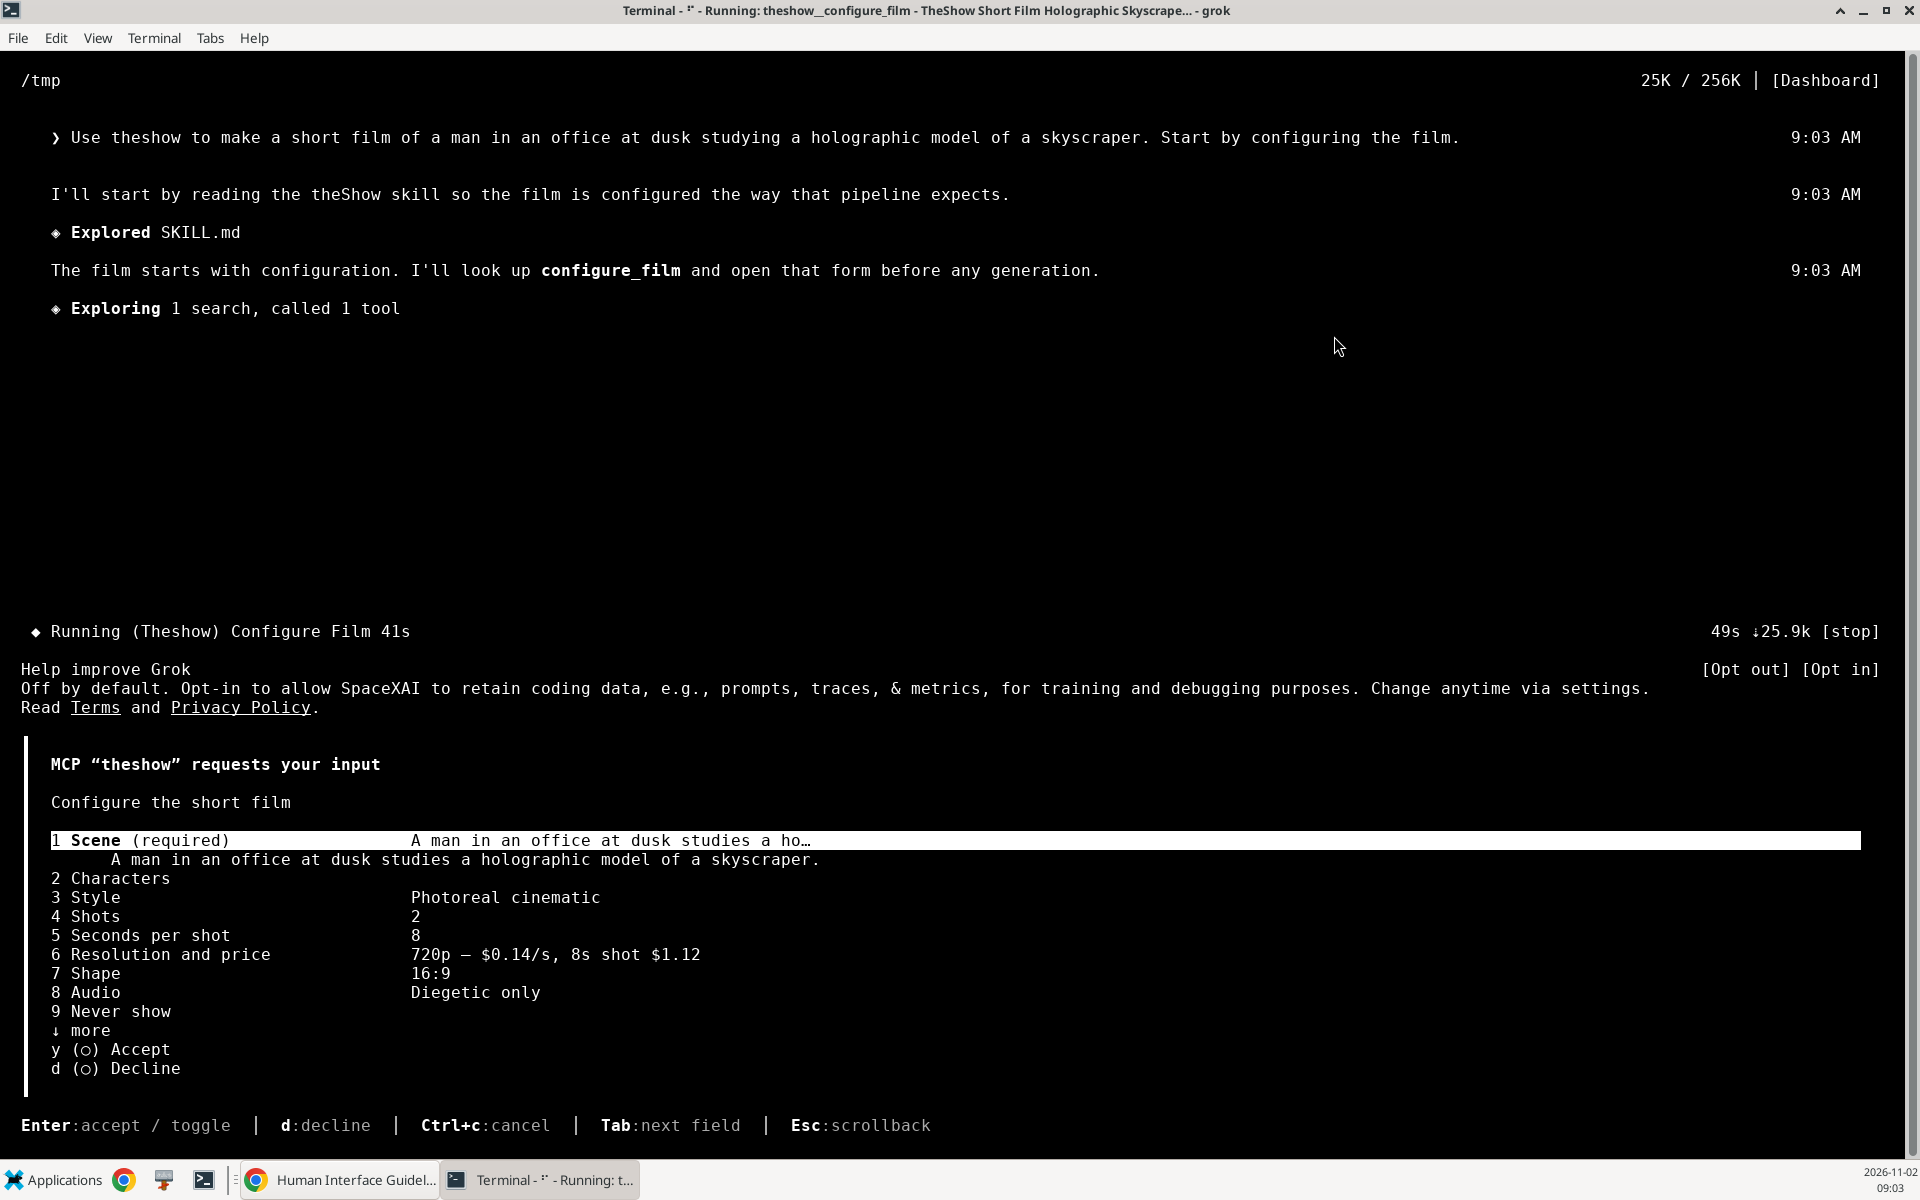
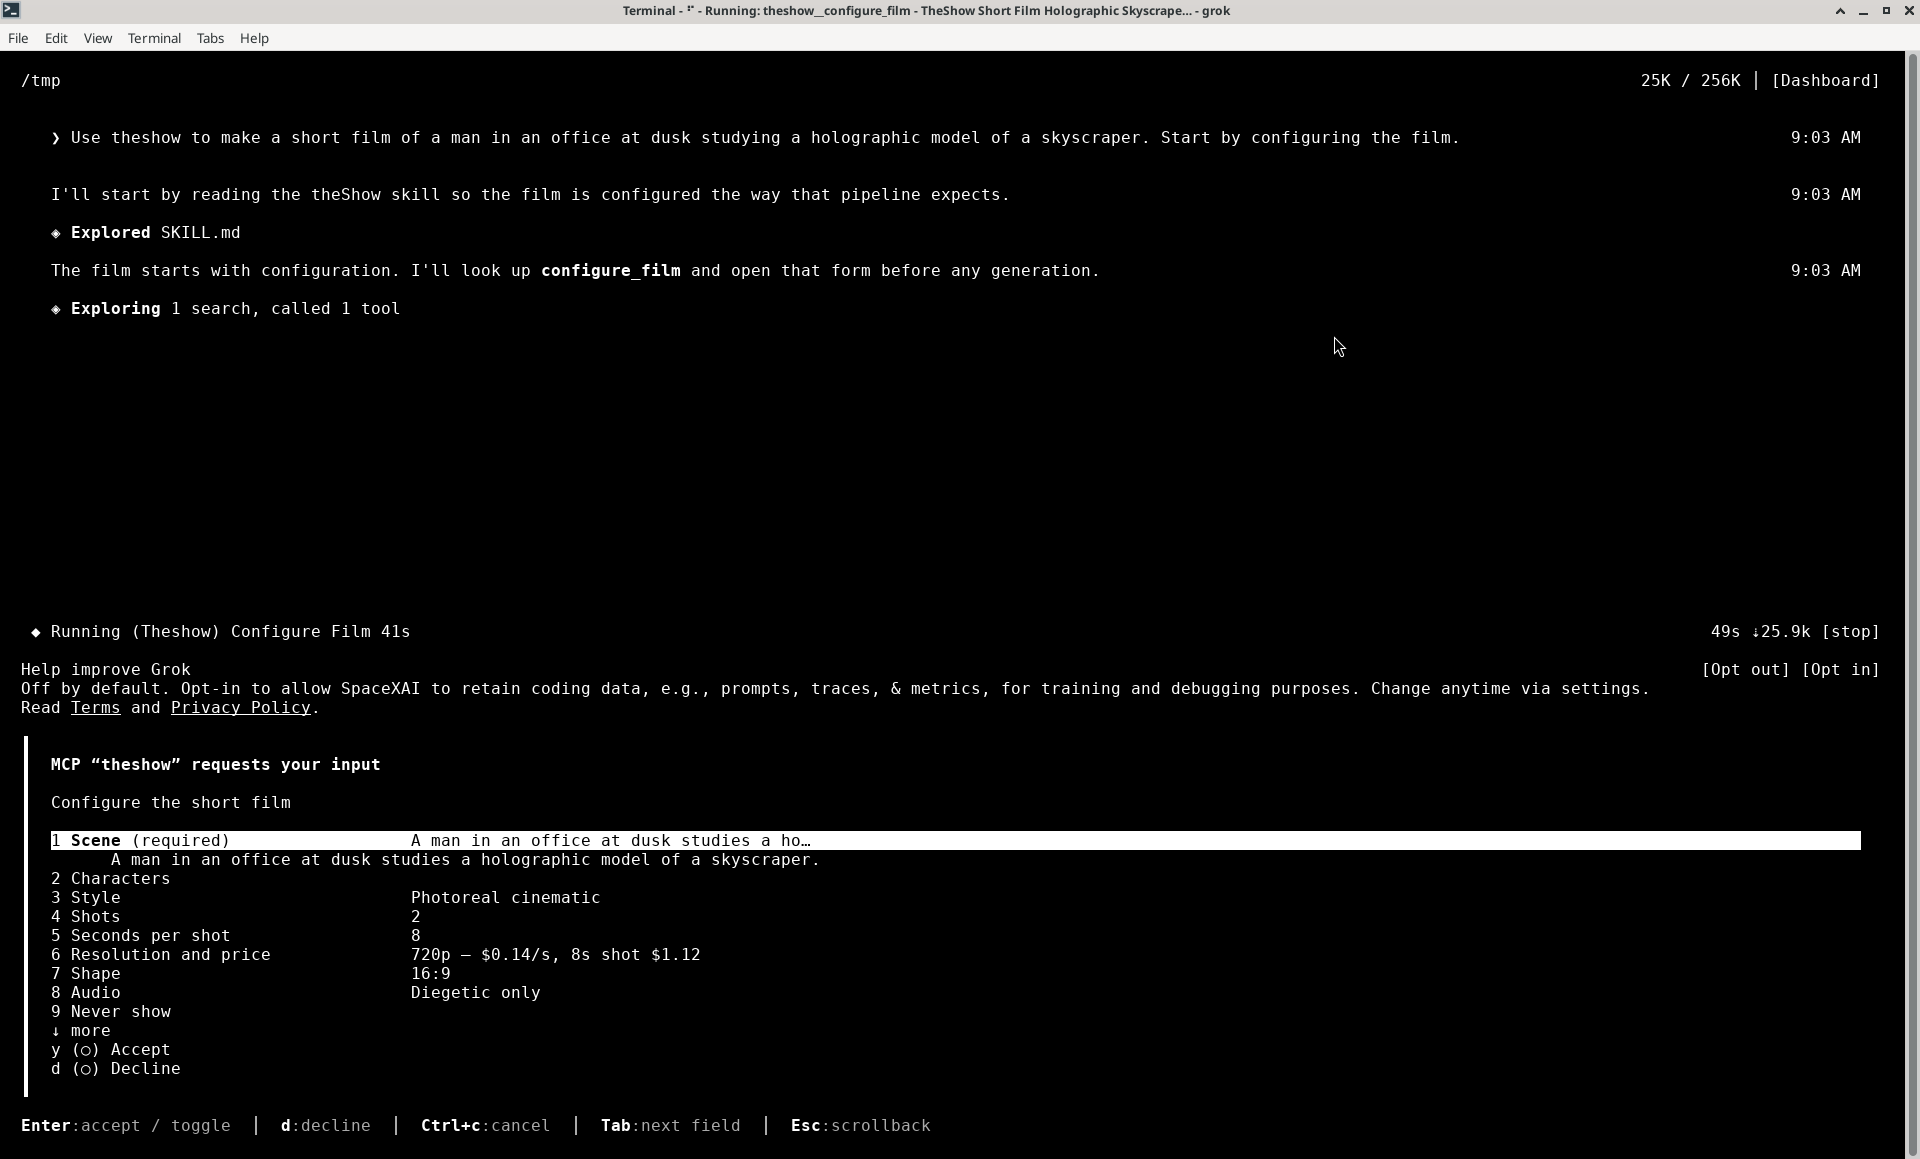
Crop the desktop taskbar out of the card screenshot, and say what is in it

diff --git a/README.md b/README.md
@@ -75,7 +75,7 @@ Ask in plain language. You never call the tools yourself.
 
 `configure_film` puts the whole brief on one interactive card: scene, characters, style, shot count, seconds per shot, resolution and its price, aspect ratio, audio, what must never appear, a music or voiceover path, and an optional reference image. The card returns your answers as JSON plus a cost estimate, and renders nothing.
 
-![The theShow configuration card inside Grok: scene, characters, style, shots, seconds per shot, resolution and price, shape, audio, never-show, and the optional reference and audio paths](docs/images/config-card.png)
+![The theShow configuration card inside Grok, showing the scene, characters, style, shots, seconds per shot, resolution and price, shape, audio and never-show fields, with accept and decline at the bottom](docs/images/config-card.png)
 
 One card is one model turn. Asking the same questions one at a time spends a turn on each before a frame exists — and turns cost money on top of renders.
 
